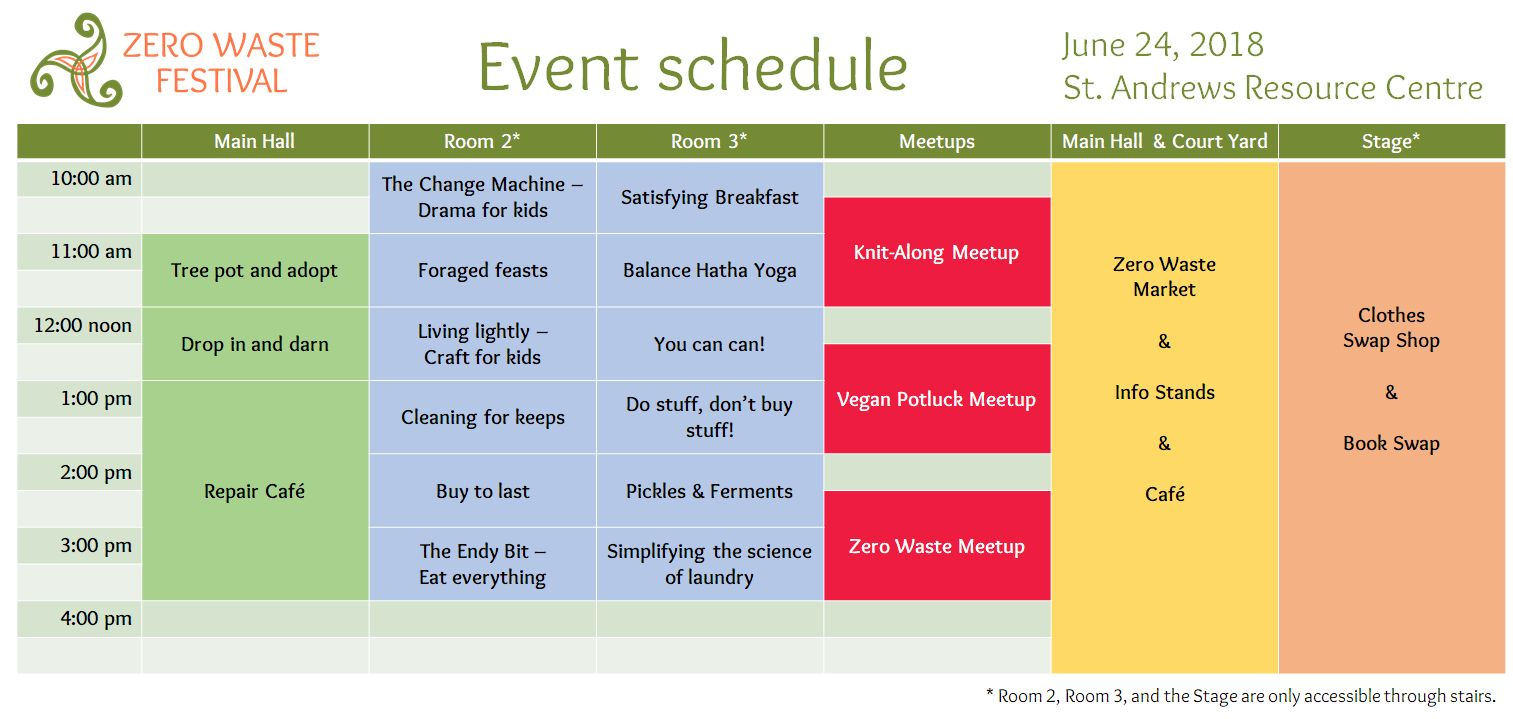
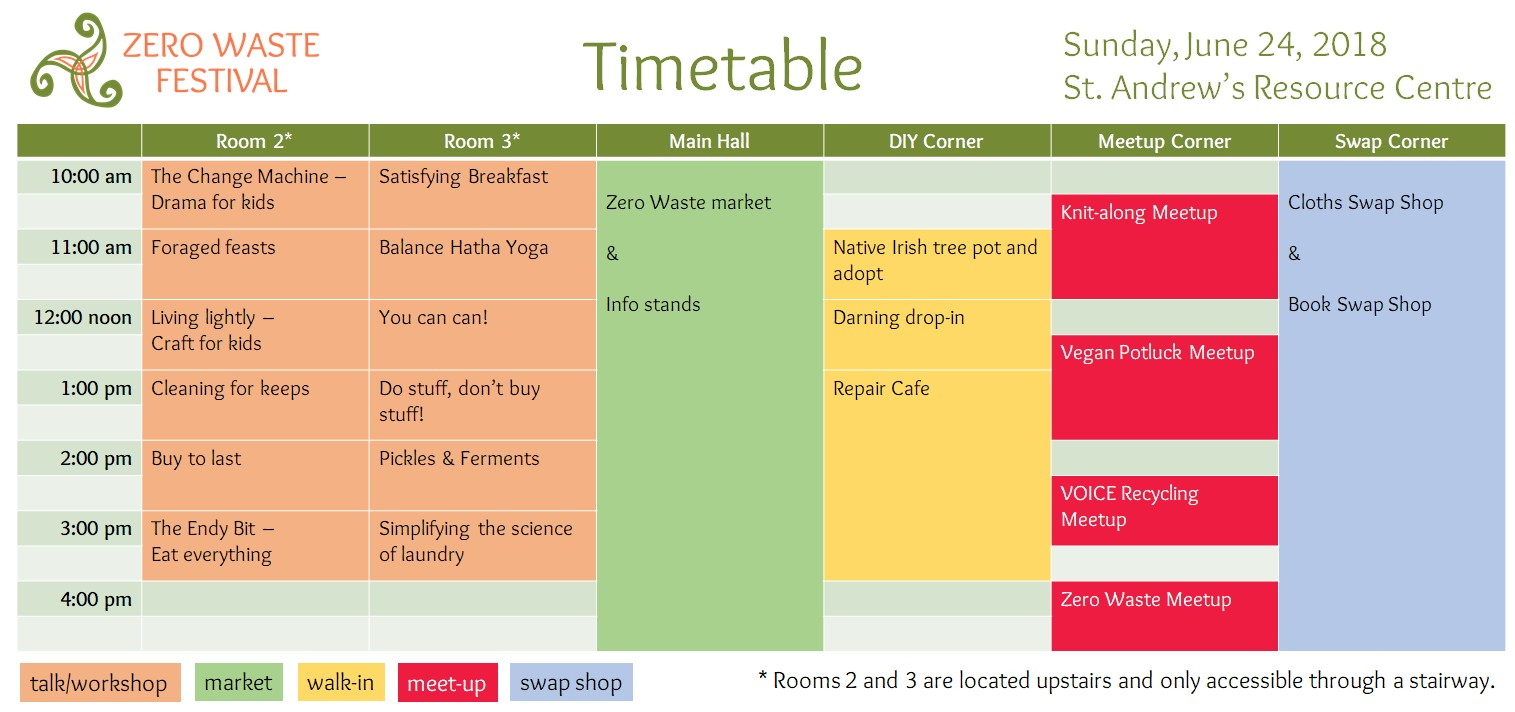
updates

diff --git a/index.md b/index.md
@@ -90,12 +90,12 @@ The venue's ground floor is accessible for wheelchairs and buggies. This is wher
 
 Next to our Zero Waste Market and the info stands, we will host a wide range of talks, workshops, walk-ins, meetups, and swap shops. 
 
-![Zero Waste Festival Event Schedul]({{ site.baseurl }}/images/2018-06-festival/zero-waste-festival-event-schedule.jpg "Zero Waste Festival Event Schedule"){:style="float: top;margin-right: 10px;width: 100%;"}
+[![Zero Waste Festival Event Schedul]({{ site.baseurl }}/images/2018-06-festival/zero-waste-festival-event-schedule.jpg "Zero Waste Festival Event Schedule"){:style="float: top;margin-right: 10px;width: 100%;"}]({{ site.baseurl }}/images/2018-06-festival/zero-waste-festival-event-schedule.jpg){:target="blank"}
 
-We will post detailed descriptions of the talks/workshops here soon.
+Click the image to enlarge.
+
 
 <a href="#top">Back to top</a>
-
 
 
 ## Repair Cafe
@@ -104,6 +104,76 @@ Together with the [Community Reuse Network Ireland](http://crni.ie/){:target="bl
 
 <a href="#top">Back to top</a>
 
+
+## DIY Corner
+
+#### 11:00 -- 12:00 <br/> Native Irish tree plant and adopt
+
+At 11 am in the main hall, there will be native tree planting for kids and adults. 
+
+Discover how tree folklore and our fairy friends can teach us lots about taking care of trees and how trees grow. Find out how in Ireland we once had a tree calendar. Write a tree poem or create some tree-art: zero waste just art! Turn rubbish into pots for tree saplings and take a tree sapling home with you! 
+
+Claire and Rebecca are part of an environmental group bringing trees and plants for wildlife into urban and suburban communities around Dublin. They will go anywhere people would like to have trees and plants because every community and every place people live, work, play or spend time in can have, and need to have, trees and plants. Find out more about them on their [Facebook page](https://www.facebook.com/groups/198294757469933/about/){:target="blank"}.
+
+#### 12:00 -- 1:00 <br/> Drop-in and darn
+
+At 12pm in the meetup area, you can learn how to darn in this drop-in workshop.
+
+Sustainable socks are hard to come by, so make the ones you have last. No matter whether you are hard on the heels or toes, bring your worn out socks and a tennis ball to this drop-in workshop and [Celia](/team) will pass on the skills she learned from her grandmother.
+
+#### 1:00 -- 4:00 <br/> Repair Cafe
+
+See above for more info about the Repair Cafe.
+
+<a href="#top">Back to top</a>
+
+
+## Workshops and Talks
+
+We will host a variety of workshops and talks during the festival. Please note, that all workshops and talks take place in the upper floor (Room 2 and Room 3) of the venue and are only accessible through stairs.
+
+| Time     | Room 2                              | Room 3                             |
+|----------|-------------------------------------|------------------------------------|
+| 10 -- 11 | The Change Machine - Drama for kids | Satisfying Breakfast               |
+| 11 -- 12 | Foraged feasts                      | Balance Hatha Yoga                 |
+| 12 -- 1  | Living lightly - Craft for kids     | You can can!                       |
+| 1 -- 2   | Cleaning for keeps                  | Do stuff, don't buy stuff!         |
+| 2 -- 3   | Buy to last                         | Pickles & Ferments                 |
+| 3 -- 4   | The Endy Bit - Eat everything       | Simplifying the science of laundry |
+
+
+### Room 2
+
+#### 10:00 -- 11:00 <br/> The Change Machine - Drama for kids
+
+#### 11:00 -- 12:00 <br/> Foraged feasts
+
+#### 12:00 -- 1:00 <br/> Living lightly - Craft for kids 
+
+#### 1:00 -- 2:00 <br/> Cleaning for keeps
+
+#### 2:00 -- 3:00 <br/> Buy to last 
+
+#### 3:00 -- 4:00 <br/> The Endy Bit - Eat everything
+
+
+### Room 3
+
+#### 10:00 -- 11:00 <br/> Satisfying Breakfast
+
+#### 11:00 -- 12:00 <br/> Balance Hatha Yoga
+
+#### 12:00 -- 1:00 <br/> You can can! 
+
+#### 1:00 -- 2:00 <br/> Do stuff, don't buy stuff!
+
+#### 2:00 -- 3:00 <br/> Pickles & Ferments 
+
+#### 3:00 -- 4:00 <br/> Simplifying the science of laundry
+
+
+
+<a href="#top">Back to top</a>
 
 ## Market
 
@@ -211,13 +281,6 @@ The Baby Market runs events around Ireland in which parents buy and sell pre-lov
 
 Find out more about The Baby Market Ireland on their [website](http://babymarket.ie/){:target="blank"}.
 
-### VOICE Ireland --- Recycling Ambassador Programme
-
-![VOICE Ireland]({{ site.baseurl }}/images/logos-external/logo-voice-ireland.jpg "VOICE Ireland"){:style="float: top;margin-right: 10px;height: 150px;"}
-
-Come say hi to one of their amazing recycling ambassadors who will help you get your recycling bin sorted on June 24th in St Andrews Resource Centre. Their Recycling Ambassador Programme delivers free recycling workshops that aim to reduce contamination and increase recycling rates in Ireland and help you get your recycling bin sorted at the same time!
-
-
 
 <a href="#top">Back to top</a>
 
@@ -237,15 +300,28 @@ There will be a dedicated Book Swap table at the Festival. Bring your old favour
 
 ## Meet-ups
 
-We will host Zero Waste themed and like-minded meetups during the festival. Updates on all the meetups and their timings will follow soon.
+We will host Zero Waste themed and like-minded meetups during the festival. 
 
-### 10:30 -- 12:00 - Revived Yarn Knit--along Meetup
+#### 10:30 -- 12:00 <br/> Revived Yarn Knit--along Meetup
 
 ![Revived Yarn Meetup]({{ site.baseurl }}/images/logos-external/logo-revived-yarn.png "Revived Yarn Meetup"){:style="float: top;margin-right: 10px;height: 150px;"}
 
 Revived yarn is a community of knitters and crocheters who help to warm the homeless of Dublin. They upcycle leftovers of yarn into handmade garments donated directly to the homeless on the streets. Find out more about this meetup at the [Revived Yarn Facebook page](https://www.facebook.com/revivedyarn){:target="blank"}.
 
-### 2:30 -- 4:00 - Zero Waste Meetup
+#### 12:30 -- 2:00 <br/> Vegan Potluck Meetup 
+
+![Dublin Vegan Group]({{ site.baseurl }}/images/logos-external/logo-dublin-vegan-group.jpg "Dublin Vegan Group"){:style="float: top;margin-right: 10px;height: 150px;"}
+
+The Dublin Vegan Group will host a BYOVF (bring your own vegan food) lunch meetup at the Zero Waste Festival. Bring your own vegan food, plates, and cutlery, so you can have a Zero Waste picnic. Find more information about this meetup at the [Meetup page](https://www.meetup.com/dublin-vegan-group/events/251715480/){:target="blank"}.
+
+#### 2:30 -- 3:30 <br/> VOICE Recycling Meetup 
+
+![VOICE Ireland]({{ site.baseurl }}/images/logos-external/logo-voice-ireland.jpg "VOICE Ireland"){:style="float: top;margin-right: 10px;height: 150px;"}
+
+Come say hi to one of their amazing recycling ambassadors who will help you get your recycling bin sorted on June 24th in St Andrews Resource Centre. Their Recycling Ambassador Programme delivers free recycling workshops that aim to reduce contamination and increase recycling rates in Ireland and help you get your recycling bin sorted at the same time!
+
+
+#### 4:00 -- 5:00 <br/> Zero Waste Meetup
 
 ![Zero Waste Meetup]({{ site.baseurl }}/images/logos-external/logo-zero-waste-meetup.jpg "Zero Waste Meetup"){:style="float: top;margin-right: 10px;height: 150px;"}
 

diff --git a/_posts/2018-06-15-meetups-zero-waste-festival.md b/_posts/2018-06-15-meetups-zero-waste-festival.md
@@ -1,0 +1,42 @@
+---
+layout: article
+title: Meetups at the Zero Waste Festival
+
+category: 2018-06-festival
+
+image:
+  feature: 2018-06-festival/2018-06-summer-festival-front-page-logo-1200x375.png
+  teaser : teasers/2018-06-15.jpg
+
+comments: false
+ads: true
+share: true
+---
+
+We will host Zero Waste themed and like-minded meetups during the festival. 
+
+
+#### 10:30 -- 12:00 <br/> Revived Yarn Knit--along Meetup
+
+![Revived Yarn Meetup]({{ site.baseurl }}/images/logos-external/logo-revived-yarn.png "Revived Yarn Meetup"){:style="float: top;margin-right: 10px;height: 150px;"}
+
+Revived yarn is a community of knitters and crocheters who help to warm the homeless of Dublin. They upcycle leftovers of yarn into handmade garments donated directly to the homeless on the streets. Find out more about this meetup at the [Revived Yarn Facebook page](https://www.facebook.com/revivedyarn){:target="blank"}.
+
+#### 12:30 -- 2:00 <br/> Vegan Potluck Meetup 
+
+![Dublin Vegan Group]({{ site.baseurl }}/images/logos-external/logo-dublin-vegan-group.jpg "Dublin Vegan Group"){:style="float: top;margin-right: 10px;height: 150px;"}
+
+The Dublin Vegan Group will host a BYOVF (bring your own vegan food) lunch meetup at the Zero Waste Festival. Bring your own vegan food, plates, and cutlery, so you can have a Zero Waste picnic. Find more information about this meetup at the [Meetup page](https://www.meetup.com/dublin-vegan-group/events/251715480/){:target="blank"}.
+
+#### 2:30 -- 3:30 <br/> VOICE Recycling Meetup 
+
+![VOICE Ireland]({{ site.baseurl }}/images/logos-external/logo-voice-ireland.jpg "VOICE Ireland"){:style="float: top;margin-right: 10px;height: 150px;"}
+
+Come say hi to one of their amazing recycling ambassadors who will help you get your recycling bin sorted on June 24th in St Andrews Resource Centre. Their Recycling Ambassador Programme delivers free recycling workshops that aim to reduce contamination and increase recycling rates in Ireland and help you get your recycling bin sorted at the same time!
+
+
+#### 4:00 -- 5:00 <br/> Zero Waste Meetup
+
+![Zero Waste Meetup]({{ site.baseurl }}/images/logos-external/logo-zero-waste-meetup.jpg "Zero Waste Meetup"){:style="float: top;margin-right: 10px;height: 150px;"}
+
+If you are just planning to start your Zero Waste journey or if you are an expert in Zero Waste living (or anywhere between), join us at the Zero Waste Meetup to share ideas and encourage each other. The Zero Waste Dublin Meetup is a bi-weekly meetup at various locations. Find more information about this meetup at the [Zero Waste Dublin Meetup page](https://www.meetup.com/Zero-waste-meetup-ireland/){:target="blank"}.
